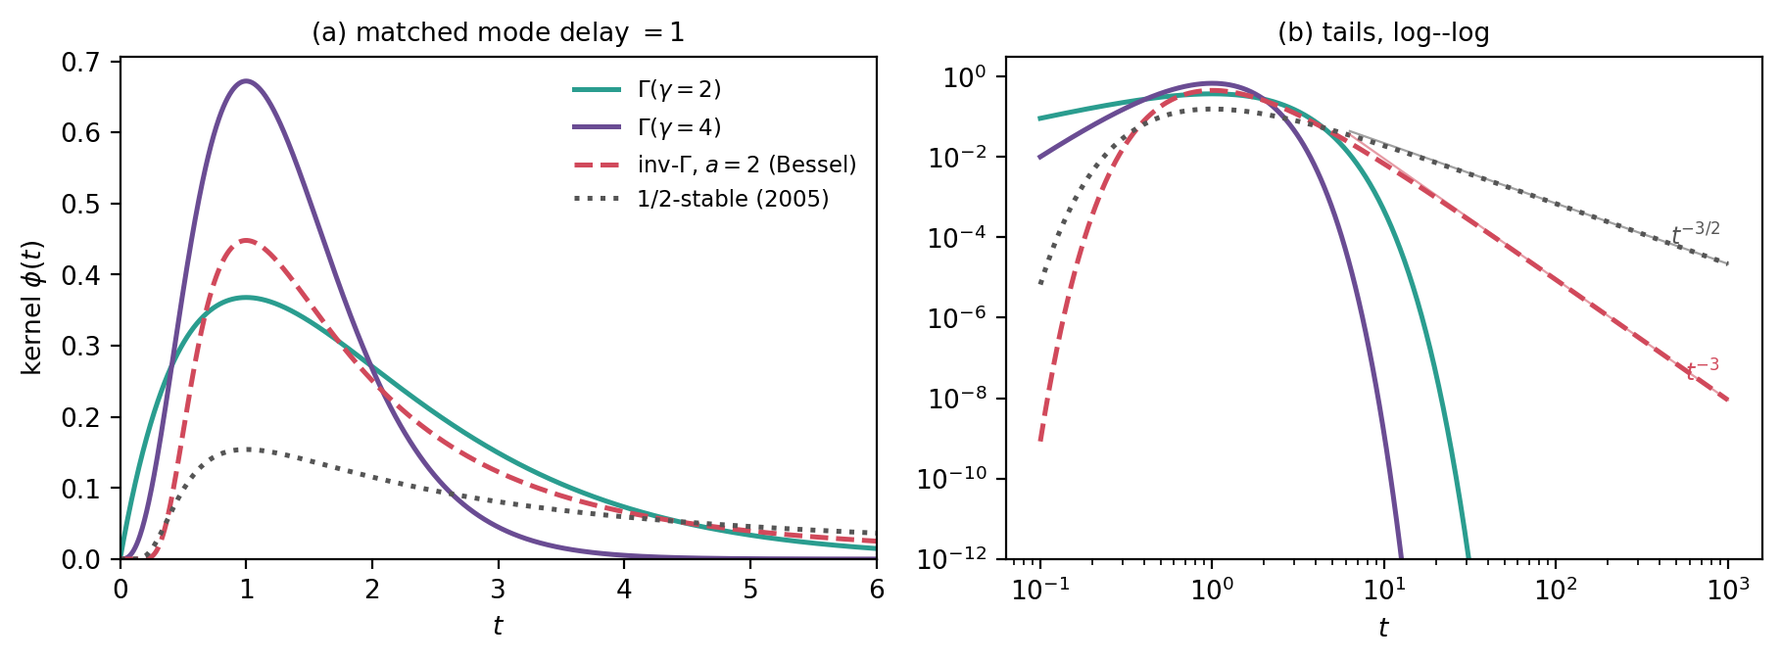
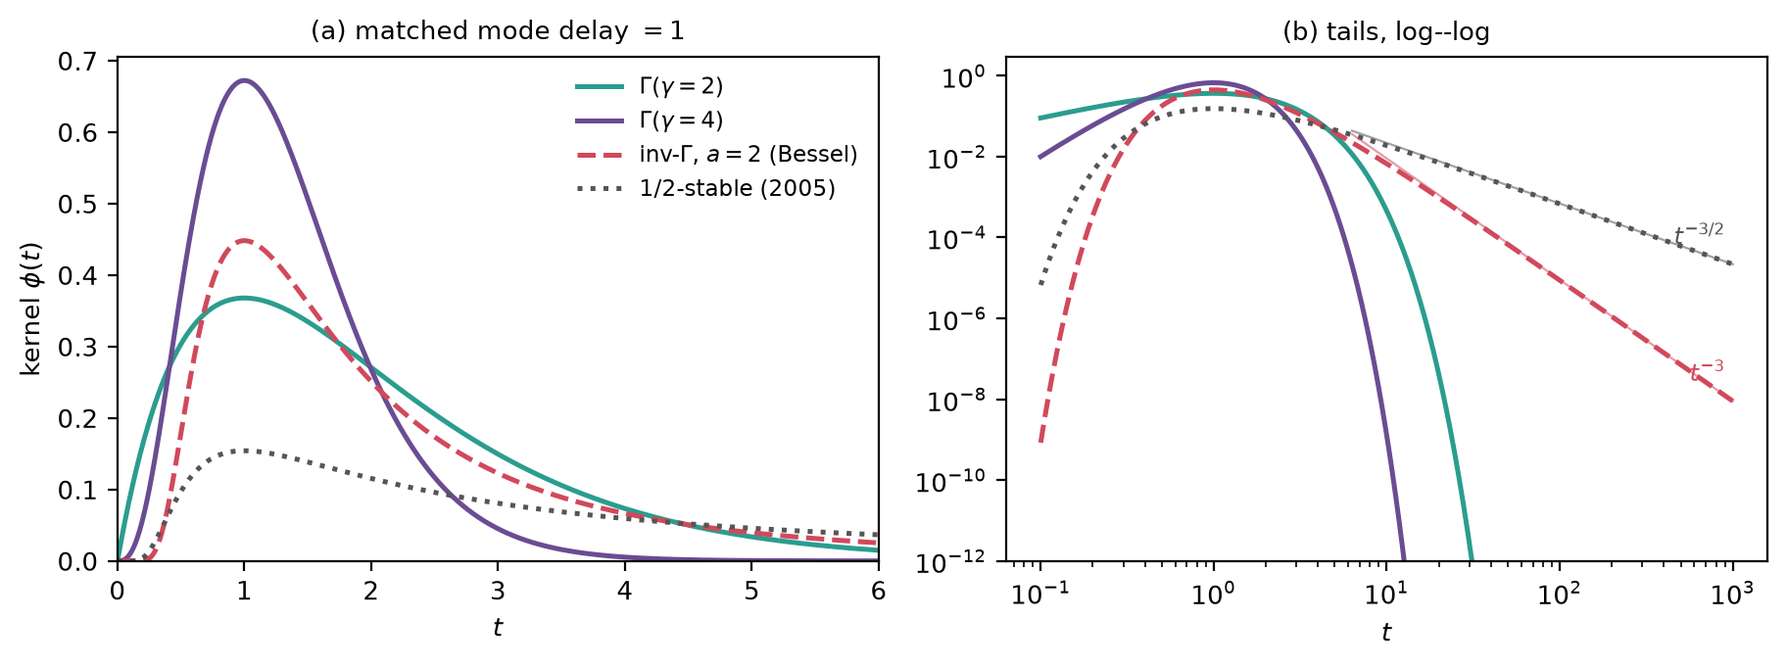
P5: final review and the artifact gate
Fifth batch of the publication plan; the DP4 light review (two fresh
agent reviewers) plus the full artifact gate, with P4 author-led in
parallel.

Review round, all findings fixed:
- S1's "(H)" coverage sentence was factually wrong (the catalogue's
  Pareto and Mittag-Leffler members fail (H)); now "every family worked
  in S8".
- S1.1 contradicted itself on lem:zstar-log-growth and silently
  overclaimed lem:standing-levy-reading (both verified \notready); the
  verification inventory now excepts both, and its duplicated S10
  inventory is deduped to the later, fuller paragraph.
- Abstract: the Gamma-cascade claim gains its integer-shape gate; the
  locality sentence regains the degenerate transport member (as does
  S13's summary).
- "explicit right inverse" in S1 and S13 (the appendix proves one
  composition order only).
- S11's lead no longer compresses the graded Thorin claim: "finite
  Thorin truncations, realized as banks of such sections exactly when
  the weights are integers".
- S1's exponent-dependence claim gains "under pointwise perturbation";
  a "The memory line." spine marker; the alpha-gauge is named in
  rem:gauge-freedom (both copies).
- Copy-edit: the "non-completely-monotone monotone" stutter resolved in
  both copies; a double colon; eight same-word spelling splits
  harmonized to the majority forms, blueprint copies included where the
  text is shared (the realis- family kept as the term of art).

Artifact gate:
[…]

diff --git a/paper/01-introduction.tex b/paper/01-introduction.tex
@@ -95,7 +95,8 @@ $0 < \alpha < 1$; but every member has infinite mean delay. The time-causal limi
 finite moments through a recursive cascade of first-order integrators, with covariance
 established there under the discrete subgroup of rescalings $\sigma \in q^{\ZZ}$.
 
-The second half of the paper develops the theory over the memory line. The embodiment
+\emph{The memory line.} The second half of the paper develops the theory over the
+memory line. The embodiment
 principle of the semigroup theory (\S5 of that paper; \S\ref{sec:measurement} motivates it)
 --- the observer must carry its usable past in its own state --- appears as theorem
 content. Under a mild standing hypothesis on the exponent, the signaling form,
@@ -105,15 +106,15 @@ evolution in present time over the memory half-line,
   \partial_t u \;=\; A\,u, \qquad u(t, 0) = f(t),
 \]
 with the signal entering as boundary data at zero scale. That hypothesis is (H),
-Definition~\ref{def:standing-hypothesis} in \S\ref{sec:signaling}; every family of
-\S\ref{sec:examples} satisfies it except the Gamma family at small shape. The operator $A$ is constructed in
+Definition~\ref{def:standing-hypothesis} in \S\ref{sec:signaling}; every family
+worked in \S\ref{sec:examples} satisfies it except the Gamma family at small shape. The operator $A$ is constructed in
 \S\ref{sec:signaling} by harmonic analysis in the scale variable, and the problem is
 well posed. $A$ is the unique inversion in its covariance class
 (Theorem~\ref{thm:signaling-form}(3)). The solution exists and is unique in an explicit
 class, with the classical period-one ambiguity closed by a Bohr--Mollerup-style rigidity
 (Corollary~\ref{cor:signaling-wellposed}). And it depends continuously on the data,
-nonexpansively and uniformly over scales, and on the exponent itself
-(Corollary~\ref{cor:signaling-hadamard}). The construction comes with an exact account of what the memory holds.
+nonexpansively and uniformly over scales, and, under pointwise perturbation, on the
+exponent itself (Corollary~\ref{cor:signaling-hadamard}). The construction comes with an exact account of what the memory holds.
 At each instant, the memory line stores the analytic family of Riemann--Liouville integrals
 of the past signal: the observer's embodiment of its past is fractional integration.
 
@@ -165,7 +166,7 @@ Appendix~\ref{sec:appendix-memory} carries Theorem~$3'$, the scale-Cauchy
 problem (Theorem~\ref{thm:scale-cauchy}): a fractional relaxation equation across scale
 whose memory kernel is the function $k$ of the representation itself. It also carries the
 Sonine conservation identity, by which the memory operator applied at each scale has an
-explicit inverse, the potential kernel; a Volterra equation that derives the kernels from
+explicit right inverse, the potential kernel; a Volterra equation that derives the kernels from
 $k$ by forward integration, with no Laplace inversion; and the pointwise non-enhancement
 corollary above.
 
@@ -266,10 +267,11 @@ uniqueness and scaling of the potential kernel, the Volterra equation (V.1) with
 uniqueness clause, the delay-derivative lemma, and the Phillips form of the generator with
 all five clauses of Lemma~\ref{lem:generator-properties} --- the last interface-free ---
 are verified. Of \S\ref{sec:signaling}, every
-numbered result through the signaling theorem is; the well-posedness arc that follows it
+numbered result through the signaling theorem is, except the L\'evy-data reading
+(Lemma~\ref{lem:standing-levy-reading}) and the log-growth
+Lemma~\ref{lem:zstar-log-growth}; the well-posedness arc that follows it
 --- Definition~\ref{def:mellin-solution} through
-Corollary~\ref{cor:signaling-hadamard} --- and the boundary-growth
-Lemma~\ref{lem:zstar-log-growth} are paper-only. Of \S\ref{sec:locality}, the classification step
+Corollary~\ref{cor:signaling-hadamard} --- is likewise paper-only. Of \S\ref{sec:locality}, the classification step
 (Lemma~\ref{lem:local-polynomial-symbol}, both directions), the log-convexity of the moment
 function (Lemma~\ref{lem:log-convexity}), the vanishing $B(0) = 0$
 (Lemma~\ref{lem:moment-recursion}(1)) and the uniqueness of the log-convex solution of the
@@ -347,7 +349,7 @@ identifications, which need $K_\nu$. So the gap is four citations and one specia
 --- not an absent theory.
 
 \paragraph{Where to look.} The development, its axiom ledger with page-verified citations
-for every cited interface, and a dependency graph in which each statement is coloured by its
+for every cited interface, and a dependency graph in which each statement is colored by its
 verification status, are available at the repository accompanying this paper,
 \url{https://github.com/danielfagerstrom/hemigroup-causal-scale-space-kernels}. The
 toolchain is pinned in-tree --- Lean~4 \texttt{v4.31.0}, Mathlib \texttt{v4.31.0}, and the

diff --git a/blueprint/src/parts/12-locality.tex b/blueprint/src/parts/12-locality.tex
@@ -52,7 +52,7 @@ $g \in C_c^\infty((0,\infty))$ attains a nonnegative maximum at $x_0$.
 
 The profiles are part of the test class because the ($\Rightarrow$) direction of
 \ref{lem:local-polynomial-symbol} must reach the symbol, and $C_c^\infty((0,\infty))$ is
-disjoint from the only class on which $B$'s behaviour is controlled; the maximum principle
+disjoint from the only class on which $B$'s behavior is controlled; the maximum principle
 stays on $C_c^\infty((0,\infty))$, where a profile, having no interior maximum, would say
 nothing.
 \statusT\quad\emph{(\textbf{Formalised}, as
@@ -60,7 +60,7 @@ nothing.
 \texttt{LocalOperator.lean}. \textbf{The profiles were added to the test class after
 formalisation}, and the reason is exactly the one given above: without them
 \ref{lem:local-polynomial-symbol}'s ($\Rightarrow$) direction cannot reach the symbol, since
-$C_c^\infty((0,\infty))$ is disjoint from the only class on which $B$'s behaviour is controlled.
+$C_c^\infty((0,\infty))$ is disjoint from the only class on which $B$'s behavior is controlled.
 Three readings had to be fixed, and each is a choice rather
 than a transcription.
 \textbf{Locality is bundled as data, not as an existential.} ``Agrees with \emph{some}
@@ -181,7 +181,7 @@ Mathlib lacks (it has the Fourier analogue, and the two are bridged by its own
 since $E_j(z)\tilde g(z)$ is itself the transform of a test function; but $B\tilde g$ need not be,
 $B = \tilde H(z{+}1)/\tilde H(z)$ carrying no growth bound --- which is precisely why
 \ref{def:inversion-operator} carries integrability as a hypothesis rather than deriving it. So the
-comparison has to be routed through the class where $B$'s behaviour is known, namely the profiles
+comparison has to be routed through the class where $B$'s behavior is known, namely the profiles
 $H(s\,\cdot)$ of \ref{lem:symbol-uniqueness}, and those are \emph{not} test functions: they are
 neither compactly supported nor supported away from the origin. Passing from one class to the
 other is an approximation argument, and it is not made above. That is why \ref{def:locality-pmp}
@@ -258,7 +258,7 @@ $P(w) = \sum_j \gamma_j E_j(w)$, where $E_j(w) = \prod_{i<j}(-w-i)$.
 
 It remains to identify $P$ with $B$, and the comparison is made on the profiles rather than on
 $C_c^\infty((0,\infty))$ --- the class \ref{def:locality-pmp} was widened to include, and the only
-one on which $B$'s behaviour is known. Fix $s > 0$ and put $g = H(s\,\cdot)$. Locality gives
+one on which $B$'s behavior is known. Fix $s > 0$ and put $g = H(s\,\cdot)$. Locality gives
 $(Ag)(x) = \sum_j \gamma_j x^{j-1}\partial_x^j H(sx)$, while \ref{thm:signaling-form}(1)'s
 eigenfunction relation gives $(Ag)(x) = sH(sx)$; equating them and clearing the weight,
 \[
@@ -465,7 +465,7 @@ ladder's Meijer-$G$ densities in \ref{prop:local-ladder} for the same reason.
 \emph{(ii)} In ($\Leftarrow$), admissibility of the family is \ref{prop:bessel-family}, itself an
 \textbf{[A]} node; its locality clause is \ref{ex:bessel-quadratic} again. Of that direction only
 the maximum-principle verification is machine-checked, as \ref{lem:pmp-verification}.
-\emph{(iii)} The homogeneity claim runs through \ref{cor:semigroup-case}, not formalised.
+\emph{(iii)} The homogeneity claim runs through \ref{cor:semigroup-case}, not formalized.
 \emph{(iv)} And the order bound is \ledger{A14} itself.
 So the reachable content sits in the four split-off nodes ---
 \ref{lem:symbol-vanishes-at-origin}, \ref{lem:moment-recursion-quotient},
@@ -497,7 +497,7 @@ $A = -c'x^{-1}\theta = -c'\partial_x$; positivity of $Q$ gives $c' > 0$.
 \emph{Order 2.} Here $Q(z) = q_1 z + q_0$ with $q_1 > 0$, by positivity of $Q$ as
 $z \to \infty$ in \ref{lem:moment-recursion}(3), and $q_0 = Q(0) = m(1) > 0$; write
 $Q(z) = q_1(z + a)$ with $a := q_0/q_1 > 0$. The recursion $m(z+1) = q_1(z+a)\,m(z)$ with
-$m(0{+}) = 1$ --- the normalisation being \ref{lem:symbol-vanishes-at-origin}'s first limit ---
+$m(0{+}) = 1$ --- the normalization being \ref{lem:symbol-vanishes-at-origin}'s first limit ---
 has a \emph{unique} log-convex solution by \ref{lem:gamma-recursion-uniqueness}, namely
 \[
   m(z) \;=\; q_1^{\,z}\,\frac{\Gamma(a + z)}{\Gamma(a)}
@@ -624,8 +624,8 @@ eqs.~(1.96) and (1.97), p.~22).
 \begin{remark}[complex roots]\label{rem:complex-roots}
 \uses{prop:local-ladder}
 Whether complex-conjugate root pairs can support an admissible family is left open; we
-conjecture not. The question is taken up in a companion note, where spectrally leading
-pairs are excluded and order three is settled.
+conjecture not. The question is taken up in a companion note (in preparation), where
+spectrally leading pairs are excluded and order three is settled.
 \end{remark}
 
 % draft: Remark 12.7

diff --git a/paper/10-locality.tex b/paper/10-locality.tex
@@ -43,7 +43,7 @@ whenever $g \in C_c^\infty((0,\infty))$ attains a nonnegative maximum at $x_0$.
 
 The profiles are part of the test class because the ($\Rightarrow$) direction of
 Lemma~\ref{lem:local-polynomial-symbol} must reach the symbol, and $C_c^\infty((0,\infty))$ is
-disjoint from the only class on which $B$'s behaviour is controlled; the maximum principle
+disjoint from the only class on which $B$'s behavior is controlled; the maximum principle
 stays on $C_c^\infty((0,\infty))$, where a profile, having no interior maximum, would say
 nothing.
 \end{definition}
@@ -72,7 +72,7 @@ order bound in Theorem~\ref{thm:locality}'s proof --- classifies the operators t
 it. It is also this theory's counterpart of a classical scale-space axiom. The requirement
 descends from Koenderink's causality hypothesis --- every feature at a coarse resolution
 must have a cause at a finer one, enforced at the extrema of the image
-(\sscite{koenderink1984structure}, p.~364). It is formalised as \emph{non-enhancement
+(\sscite{koenderink1984structure}, p.~364). It is formalized as \emph{non-enhancement
 of local extrema}: the value at a local maximum must not grow as the evolution runs
 (\sscite{lindeberg2011generalized}, Def.~3; the relation to the maximum principle ---
 close kin, not identical --- is worked out in its Appendix~B). In the spatial
@@ -123,7 +123,7 @@ $P(w) = \sum_j \gamma_j E_j(w)$, where $E_j(w) = \prod_{i<j}(-w-i)$.
 
 It remains to identify $P$ with $B$, and the comparison is made on the profiles rather than on
 $C_c^\infty((0,\infty))$ --- the class Definition~\ref{def:locality-pmp} was widened to
-include, and the only one on which $B$'s behaviour is known. Fix $s > 0$ and put
+include, and the only one on which $B$'s behavior is known. Fix $s > 0$ and put
 $g = H(s\,\cdot)$. Locality gives $(Ag)(x) = \sum_j \gamma_j x^{j-1}\partial_x^j H(sx)$, while
 Theorem~\ref{thm:signaling-form}(1)'s eigenfunction relation gives $(Ag)(x) = sH(sx)$; equating
 them and clearing the weight,
@@ -198,7 +198,7 @@ $m(z+1) = Q(z)\,m(z)$ determines $m$ only up to a $1$-periodic factor. This is t
 period-one ambiguity of \S\ref{sec:signaling} again, met there in the mode recursion and
 closed analytically (Lemma~\ref{lem:mode-rigidity}: boundedness over one period, gluing,
 Liouville); here it is closed by the other classical mechanism, Bohr--Mollerup ---
-log-convexity plus normalisation pins the solution. The hypothesis is free, which is the
+log-convexity plus normalization pins the solution. The hypothesis is free, which is the
 next lemma; the uniqueness it buys, at the linear $Q$ the theorem needs, is the one after.
 
 % shared with blueprint lem:log-convexity
@@ -314,7 +314,7 @@ $A = -c'x^{-1}\theta = -c'\partial_x$; positivity of $Q$ gives $c' > 0$.
 \emph{Order 2.} Here $Q(z) = q_1 z + q_0$ with $q_1 > 0$, by positivity of $Q$ as
 $z \to \infty$ in Lemma~\ref{lem:moment-recursion}(3), and $q_0 = Q(0) = m(1) > 0$; write
 $Q(z) = q_1(z + a)$ with $a := q_0/q_1 > 0$. The recursion $m(z+1) = q_1(z+a)\,m(z)$ with
-$m(\zp) = 1$ --- the normalisation established in the proof of
+$m(\zp) = 1$ --- the normalization established in the proof of
 Lemma~\ref{lem:moment-recursion}(1) --- has a \emph{unique} log-convex solution by
 Lemma~\ref{lem:gamma-recursion-uniqueness}, namely
 \[
@@ -436,8 +436,8 @@ eqs.~(1.96) and (1.97), p.~22).
 
 \begin{remark}[complex roots]\label{rem:complex-roots}
 Whether complex-conjugate root pairs can support an admissible family is left open; we
-conjecture not. The question is taken up in a companion note, where spectrally leading
-pairs are excluded and order three is settled.
+conjecture not. The question is taken up in a companion note (in preparation), where
+spectrally leading pairs are excluded and order three is settled.
 \end{remark}
 
 % Verbatim from the blueprint's rem:stable-slice.

diff --git a/paper/13-discussion.tex b/paper/13-discussion.tex
@@ -21,8 +21,9 @@ made exact: the memory line carries the analytic family of fractional integrals 
 signal, the scale evolution inverts into an evolution in present time under the unique
 covariant inversion (Theorem~\ref{thm:signaling-form}), and the temporal jet is an
 instantaneous readout of that same state (\S\ref{sec:jet}). The local,
-positivity-respecting media among these are classified --- the Bessel family, unfolding the
-isolated heat case of the semigroup theory (Theorem~\ref{thm:locality}). Non-creation ---
+positivity-respecting media among these are classified --- a degenerate transport member
+and the Bessel family, the latter unfolding the isolated heat case of the semigroup
+theory (Theorem~\ref{thm:locality}). Non-creation ---
 the oldest axiom of the subject --- is settled in both directions: the scale-monotone form
 is impossible for every nondegenerate member (Proposition~\ref{prop:vd-impossibility}), the
 endpoint form --- no scale showing more sign changes than the signal --- is classified and
@@ -30,7 +31,7 @@ attained (Proposition~\ref{prop:gamma-regularity}), and along the delay path the
 non-enhancing at past-dominating extrema (Corollary~\ref{cor:past-dominating}). And the hemigroup
 is itself the algorithm: the discrete cascade is exact at every set of scale knots
 (Proposition~\ref{prop:knot-exactness}), with the memory-kernel and Sonine structure of
-Appendix~\ref{sec:appendix-memory} --- the scale-Cauchy problem, and the exact inverse of
+Appendix~\ref{sec:appendix-memory} --- the scale-Cauchy problem, and the exact right inverse of
 each scale's memory operator --- reading the same function $k$ as the physical memory
 kernel.
 
@@ -82,7 +83,8 @@ question of what surface data determine the medium. It is settled here only in i
 positivity-respecting corner (Theorem~\ref{thm:locality}, discharging the promise of
 Remark~\ref{rem:markov-media}) and is otherwise the subject of a separate article. The
 complex-root cases of Proposition~\ref{prop:local-ladder}
-(Remark~\ref{rem:complex-roots}) are largely resolved in a companion note, where
+(Remark~\ref{rem:complex-roots}) are largely resolved in a companion note (in
+preparation), where
 spectrally leading pairs are excluded and order three is settled, with the subordinate-pair
 configuration remaining. And the discrete-covariance branch, whose place in the axiom
 system is identified in Remark~\ref{rem:strata} below, has its structure theorem, together

diff --git a/paper/09-signaling.tex b/paper/09-signaling.tex
@@ -230,7 +230,7 @@ $k_{cF}(0^+) = c\,k(0^+)$ and $(cF)$'s drift is $cb_0$; applying~(1)--(2) to $cF
 gives $z_*(cF) = c\,z_*(F)$, whether $b_0 > 0$ or $b_0 = 0$.
 \end{proof}
 
-The threshold $1$ is not an artefact of one estimate. It arises three separate times, for
+The threshold $1$ is not an artifact of one estimate. It arises three separate times, for
 three different reasons: in the convergence of the Mellin integral of the delayed field
 (Lemma~\ref{lem:memory-fractional-integrals}), in the application of that lemma at $z - 1$
 in Theorem~\ref{thm:signaling-form}(2), and in the convergence of $\int_\rho^t (t-r)^{z-2}dr$
@@ -660,11 +660,11 @@ solution is $\tilde g(z) = s^{-z}\tilde H(z)\,p(z)$ for an \emph{arbitrary} $1$-
 the same obstruction Bohr--Mollerup closes for $\Gamma$, one level down. What follows closes it
 here. Definition~\ref{def:mellin-solution} names what a solution of the signaling problem
 \emph{is}, mirroring Theorem~\ref{thm:signaling-form}(2)'s own clauses rather than restating
-them. Lemma~\ref{lem:mode-rigidity} kills the periodic ambiguity, under a normalisation the
+them. Lemma~\ref{lem:mode-rigidity} kills the periodic ambiguity, under a normalization the
 field satisfies for free: its own modes are dominated by the profile, uniformly over one
 period, the theory's counterpart of the log-convexity hypothesis Bohr--Mollerup imposes. And
 Corollary~\ref{cor:signaling-wellposed} assembles existence with \emph{solution}-uniqueness
-under that normalisation --- existence and uniqueness in the profile-dominated Mellin
+under that normalization --- existence and uniqueness in the profile-dominated Mellin
 class, which Theorem~\ref{thm:signaling-form} alone does not deliver. Of Hadamard's three
 demands this supplies the first two, and Corollary~\ref{cor:signaling-hadamard} completes
 the third from the representation, with stability under perturbation of the exponent
@@ -941,8 +941,10 @@ modes (Corollary~\ref{cor:signaling-wellposed}(2)).
 $v(t,x) := (\Phi_{0,x}g)(t)$,
 \[
   \sup_{x>0}\,\|u(\cdot,x) - v(\cdot,x)\|_1 \;\le\; \|f - g\|_1,
-  \qquad
-  \|u(\cdot,y) - v(\cdot,y)\|_1 \;\le\; \|u(\cdot,x) - v(\cdot,x)\|_1 \quad (0 < x < y).
+\]
+and along the evolution,
+\[
+  \|u(\cdot,y) - v(\cdot,y)\|_1 \;\le\; \|u(\cdot,x) - v(\cdot,x)\|_1 \qquad (0 < x < y).
 \]
 \item \emph{(Stability under perturbation of the exponent.)} Let $F_n$ be admissible
 exponents with $F_n(s) \to F(s)$ for every $s > 0$, and let

diff --git a/paper/main.tex b/paper/main.tex
@@ -35,12 +35,19 @@
 \documentclass[11pt]{article}
 
 \usepackage[a4paper,margin=1in]{geometry}
+% P5 artifact gate (2026-09-01): let paragraphs breathe before overflowing the margin --
+% clears the sweep's paragraph-level overfull boxes without touching shared statement text.
+\setlength{\emergencystretch}{1.5em}
 \usepackage{amsmath,amssymb,amsthm}
 \usepackage{graphicx}
 \usepackage{tikz}
 \usetikzlibrary{patterns}
 \usepackage{booktabs}
 \usepackage[hidelinks]{hyperref}
+\hypersetup{
+  pdftitle={Time-Causal Scale Space from Hemigroup Axioms: Characterization of the Kernels},
+  pdfauthor={Daniel Fagerstr\"om},
+}
 
 \graphicspath{{../figures/}}
 
@@ -76,12 +83,12 @@ marginals of self-similar additive (Sato) subordinators; reimposing interchangea
 recovers the extremal stable densities together with a pure delay, exposing their heavy
 tails as the price of that assumption rather than of causality or covariance. The enlarged
 class contains members with all moments finite --- foremost the Gamma family, implemented
-exactly by cascades of first-order filter sections. Over the memory half-line, under a
+exactly, at integer shape, by cascades of first-order filter sections. Over the memory half-line, under a
 mild standing hypothesis, the scale evolution inverts into an evolution in present time,
 well posed in an explicit class: the memory line stores the
 Riemann--Liouville integrals of the past signal, the temporal $N$-jet reads that state
 instantaneously, and locality with the positive maximum principle singles out a
-one-parameter Bessel family of media. Non-creation of temporal structure is settled in
+degenerate transport member and a one-parameter Bessel family of media. Non-creation of temporal structure is settled in
 both directions: no nondegenerate member admits the scale-monotone form, while the
 endpoint form --- no scale showing more sign changes than the signal --- is attained
 exactly by the classified variation-diminishing members. The characterization and the

diff --git a/paper/03-preliminaries.tex b/paper/03-preliminaries.tex
@@ -7,7 +7,7 @@
 %     blueprint; the draft used both without stating them — the paper states them so
 %     that later proofs can cite a numbered statement instead of a bracket);
 %   - the blueprint's [T] refinement nodes (def:levy-exponent, the causal cases,
-%     transform tightness) are NOT transcribed — formalisation vocabulary, covered by
+%     transform tightness) are NOT transcribed — formalization vocabulary, covered by
 %     §1.1's account;
 %   - the causal vocabulary (causal functions, X₀, T_r, the core 𝒟) LIFTED here from
 %     draft §§9–10 heads (NOTES-exposition Part 4 repair 1), so §9 (signaling) stands
@@ -149,7 +149,7 @@ triple unique. Both names are kept because the two readings matter separately: t
 of this paper argue mostly in the representation, and the machine-checked development
 (\S\ref{sec:machine-checked}) argues \emph{only} there --- it never defines complete
 monotonicity at all --- so a statement whose conclusion is given in $\LE$ is one the
-formalisation can state verbatim.
+formalization can state verbatim.
 
 % Paper-side expository addition (no blueprint counterpart; reader's thread, the
 % companion piece to rem:delay-dictionary below): the toolbox's four clauses and the two

diff --git a/paper/04-representation.tex b/paper/04-representation.tex
@@ -95,7 +95,7 @@ once: nothing in the display is pointwise, so no restriction to $C_c$ and no den
 needed.
 
 \emph{Uniqueness.} Take $f = 1_{(0,1)}$ and pair $\mu * f$ against the clamped
-exponential $w_s(t) = e^{-s\max(t,0)}$: by the factorisation~\eqref{eq:clamped},
+exponential $w_s(t) = e^{-s\max(t,0)}$: by the factorization~\eqref{eq:clamped},
 $\langle w_s, \mu * f\rangle = \langle w_s, f\rangle\,\hat\mu(s)$ with
 $\langle w_s, f\rangle > 0$. So $\Phi$ determines $\hat\mu$ on $[0,\infty)$, and a finite
 measure on $[0,\infty)$ is determined by its Laplace transform
@@ -213,7 +213,7 @@ that convolution with a density carried by $(0,1)$ only moves mass to the right 
 Prokhorov returns a probability measure carried by $[0,\infty)$ outright. The mass and support
 clauses are then part of the extraction rather than separate arguments, no dual space appears,
 and the weak-$*$ selection apparatus --- Banach--Alaoglu and Riesz--Markov --- is
-bypassed. The second route is the one the formalisation follows, because it needs no dual
+bypassed. The second route is the one the formalization follows, because it needs no dual
 space: the library has Banach--Alaoglu but not the identification of $M(\RR)$ with
 $C_0(\RR)^*$.
 

diff --git a/paper/11-implementation.tex b/paper/11-implementation.tex
@@ -17,10 +17,10 @@ direction can be sampled \emph{exactly}, for any family
 only $\gamma$ first-order states per increment (Proposition~\ref{prop:gamma-cascade}); and
 the whole Thorin subclass --- every admissible family with completely monotone memory
 kernel, the Bessel and stable corners included --- is approximated from inside the axiom
-class by banks of such sections, exactly rational when the Thorin weights are integers
-(Proposition~\ref{prop:thorin-subclass}). Only the genuinely non-Thorin members are left to
-direct convolution. The structural fact that organizes everything is the first step:
-the \emph{scale direction never needs to be discretized approximately}:
+class by finite Thorin truncations, realized as banks of such sections exactly when the
+weights are integers (Proposition~\ref{prop:thorin-subclass}). Only the genuinely non-Thorin members are left to
+direct convolution. The structural fact that organizes everything is the first step --- the
+\emph{scale direction never needs to be discretized approximately}:
 
 % shared with blueprint prop:knot-exactness — promoted 2026-09-01 with chapter 13,
 % reversing the original scope decision (blueprint content.tex header).

diff --git a/paper/07-characterization.tex b/paper/07-characterization.tex
@@ -363,7 +363,7 @@ representation (Proposition~\ref{prop:gamma-family}), the Bessel family by local
 (Proposition~\ref{prop:bessel-family}, Theorem~\ref{thm:locality}). Since all
 three have completely monotone $k$, the closed convex cone the three corners generate together
 is exactly the Thorin subclass --- strictly smaller than the whole class, the difference being
-the non-completely-monotone monotone memory kernels (plateaus, kinks, hard cutoffs). The
+the memory kernels that are monotone but not completely monotone (plateaus, kinks, hard cutoffs). The
 Dickman rays are the paradigm of that difference: their kernels solve the delay equation
 obtained from the Volterra identity of Appendix~\ref{sec:appendix-memory} with the step kernel
 $k = \mathbf{1}_{[0,\tau)}$, and carry derivative singularities at the delays

diff --git a/blueprint/src/parts/07-characterization.tex b/blueprint/src/parts/07-characterization.tex
@@ -335,7 +335,7 @@ principle --- the stable family by dilation symmetry (\ref{cor:semigroup-case},
 \ref{thm:locality}). Since all
 three have completely monotone $k$, the closed convex cone the three corners generate together
 is exactly the Thorin subclass --- strictly smaller than the whole class, the difference being
-the non-completely-monotone monotone memory kernels (plateaus, kinks, hard cutoffs). The
+the memory kernels that are monotone but not completely monotone (plateaus, kinks, hard cutoffs). The
 Dickman rays are the paradigm of that difference: their kernels solve the delay equation
 obtained from the Volterra identity of the memory chapter with the step kernel
 $k = \mathbf{1}_{[0,\tau)}$, and carry derivative singularities at the delays

diff --git a/scripts/make-figures.py b/scripts/make-figures.py
@@ -19,6 +19,7 @@ import matplotlib.pyplot as plt
 from scipy.stats import gamma as gamma_d, invgamma
 
 HERE = os.path.dirname(os.path.abspath(__file__))
+FIGDIR = os.path.normpath(os.path.join(HERE, "..", "figures"))
 plt.rcParams.update({"font.size": 9.5, "axes.linewidth": 0.8})
 COLS = {1: "#1b6ca8", 2: "#2a9d8f", 4: "#6a4c93"}
 RED, GREY = "#d1495b", "#555555"
@@ -77,7 +78,7 @@ def make_figure(fname, gam_list, gam_scale, ig_shape, ig_scale, st_scale,
     ax2.set_title("(b) tails, log--log", fontsize=9.5)
 
     fig.tight_layout()
-    fig.savefig(os.path.join(HERE, fname), dpi=200, bbox_inches="tight")
+    fig.savefig(os.path.join(FIGDIR, fname), dpi=200, bbox_inches="tight")
     plt.close(fig)
     print(f"wrote {fname}")
     return gams, ig, st
